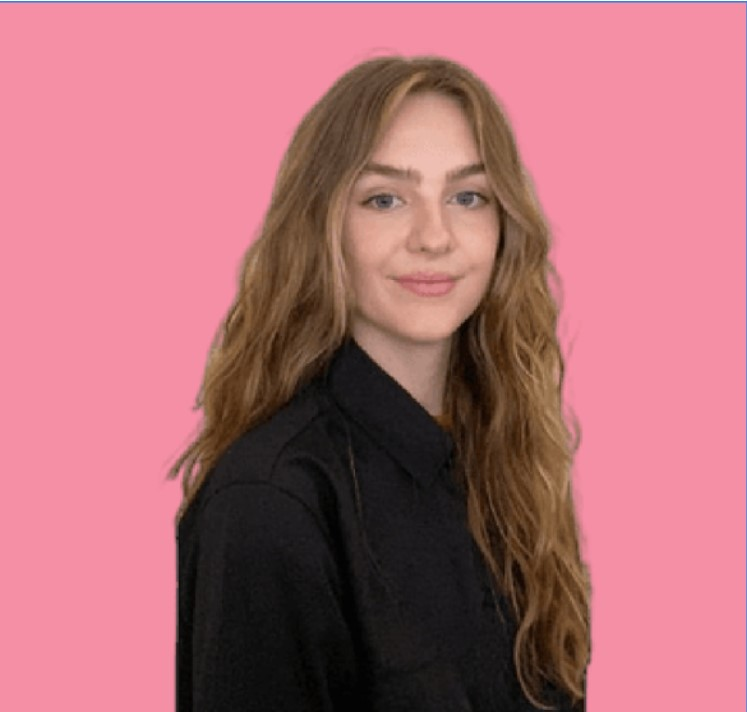
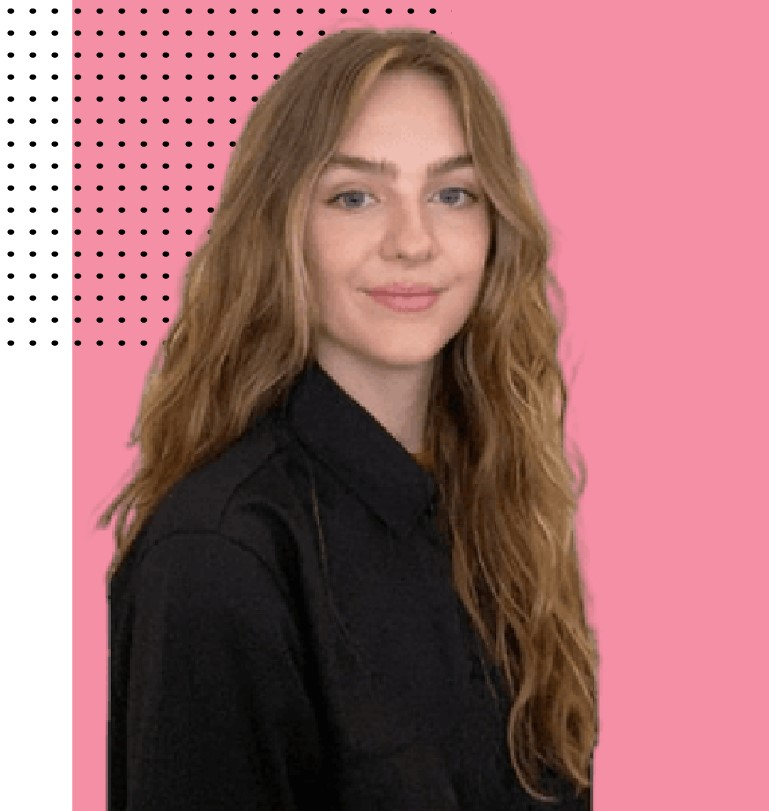
forside

diff --git a/index.html b/index.html
@@ -30,12 +30,13 @@
           
 
     </header>
-    <div class="grid_1">
+    
         <div class="grid_1_1">
             <img src="Billeder/baggrund_forside.svg" alt="Baggrund til forsiden" class="baggrund_forside" />
         </div>
 
     <main>
+        <div class="grid_1">
 
         <div class="grid_1_2">
             <p>Lorem ipsum dolor sit amet consectetur adipisicing elit. Eveniet repellat consequuntur ex nostrum adipisci quos vero tempore delectus, nobis asperiores aspernatur soluta perspiciatis sint architecto. Quos aut hic est iste, minima, dicta voluptas exercitationem culpa consequatur architecto adipisci labore dolor magni ab maxime necessitatibus laudantium beatae vitae, quia aliquam eius. Debitis, quae repellendus vel mollitia sint nam necessitatibus molestias, cumque fugit cum atque? Error doloribus nulla molestias laboriosam minima quae aspernatur velit numquam, voluptatibus ullam illo magni adipisci. Tenetur quasi voluptatibus exercitationem earum facere. At, molestias. Ipsam est perspiciatis autem iste. Praesentium laboriosam unde blanditiis eligendi eos aut incidunt dolorum harum exercitationem, ipsum debitis ut impedit fugiat ad, sequi quod quibusdam voluptatem sed a quisquam! Unde deserunt sit fuga? Reiciendis perferendis numquam dolore eaque vel beatae adipisci, rem cumque veniam id dicta ipsa at reprehenderit, ad dignissimos consequuntur laborum esse nam. Reprehenderit beatae optio voluptates excepturi nemo quod ipsa, iusto neque numquam molestias eius voluptatem dolore, quas alias! Alias, ipsum commodi laborum accusamus illum repellat suscipit expedita necessitatibus, atque, at odio doloremque amet vel neque nisi tempora numquam dolorum assumenda veniam reiciendis enim. Quo recusandae aut molestias voluptates omnis quidem quam dolore rem! Inventore labore minus esse eveniet. Quam, inventore.</p>
@@ -50,11 +51,6 @@
         </div>
         
     </div>
-
-    <div class="grid_1_2">
-
-    </div>
-    
     
         
     </main>

diff --git a/css/style.css b/css/style.css
@@ -37,7 +37,8 @@ h3 {
 
 p {
     font-size: 15px;
-    letter-spacing: 1.5px;
+    letter-spacing: 0.1rem;
+    line-height: 1.3rem;
     color: black;
     font-weight: 400;
     font-style: normal;
@@ -53,6 +54,8 @@ p {
     box-shadow: 0 1px 4px rgba(0, 0, 0, 0.15);
     background-color: transparent;
     min-height: 55px;
+    position: fixed;
+    width: 100%;
   }
 
   .nav-links a {
@@ -74,7 +77,6 @@ p {
   /* Styling af footer */
 
   footer {
-    position: fixed;
     padding: 10px 10px 0px 10px;
     text-align: center;
     bottom: 0;
@@ -98,14 +100,17 @@ p {
   .grid_1 {
       display: grid;
       gap: 20px;
+      margin: 50px;
   }
 
   .grid_1_1 {
       display: grid;
+
   }
 
   .grid_1_2 {
     display: grid;
+    gap: 30px;
 }
 .grid_1_3 {
     display: grid;
@@ -119,6 +124,7 @@ p {
     grid-row-end: 2;
     grid-column-start: 1;
     grid-column-end: 3;
+
 }
 
 .felt_2 {
@@ -139,6 +145,7 @@ p {
     grid-row-end: 3;
     grid-column-start: 3;
     grid-column-end: 4;
+    background-color: #F5CB15;
 }
 
 
